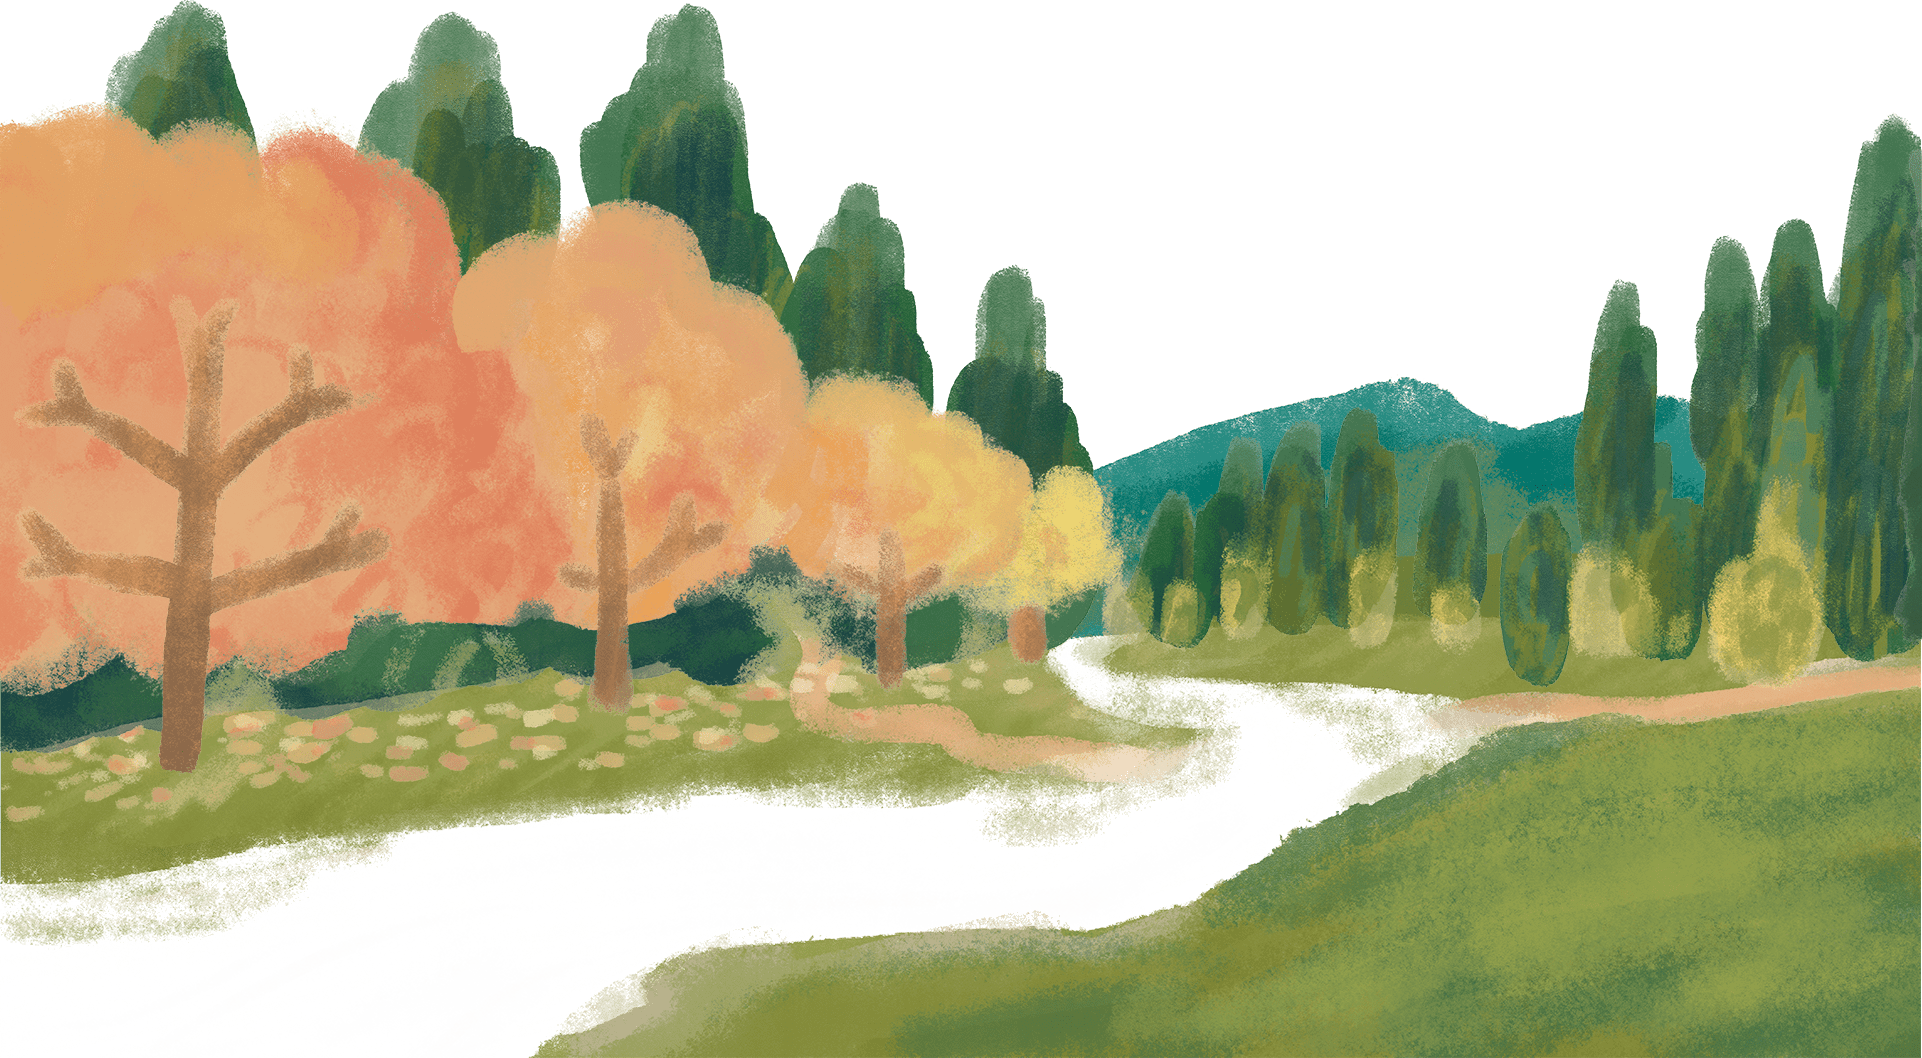
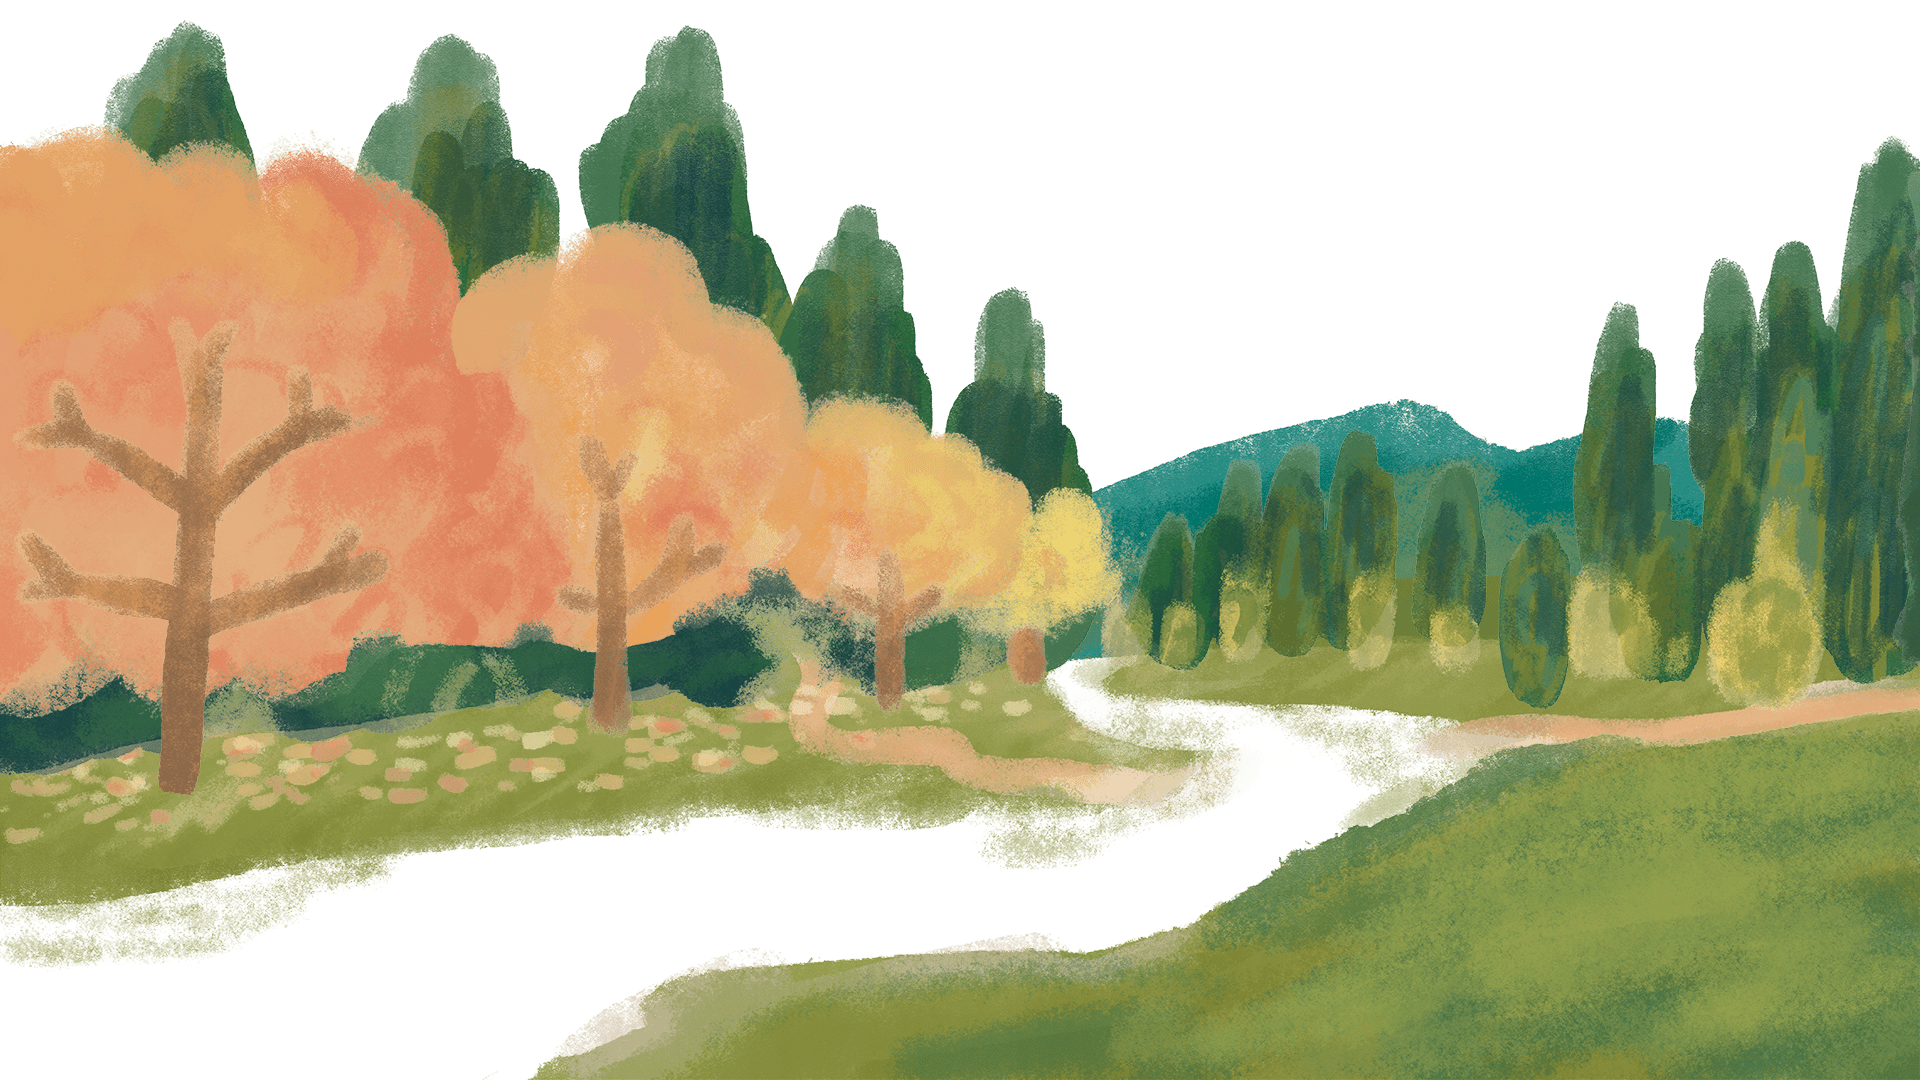
add game 2 20241210 features

diff --git a/js/game/game2-scene3.js b/js/game/game2-scene3.js
@@ -1,6 +1,6 @@
 // quick access / buffer
 var s3_cloud1, s3_cloud2, s3_cloud3, s3_cloud4;
-var s3_grass, s3_mushroom1, s3_mushroom2;
+var s3_grass, s3_mushroom1, s3_mushroom2 ,s3_flower1, s3_flower3, s3_flower4;
 var s3_duck1, s3_duck2, s3_duck3, s3_duck4, s3_rabbit1, s3_rabbit2;
 // var s3_rabbitPosX, s3_rabbitPosY;
 
@@ -8,6 +8,7 @@ function InitializeGameScene3() {
     gameAssetLibrary = new AssetLibrary({
         "game2-scene3-sky": {image:"img/game2/game2-scene3-sky-min.png"},
         "game2-scene3-bg": {image:"img/game2/game2-scene3-bg-min.png"},
+        "game2-scene3-river1": {image:"img/game2/game2-scene3-river1-min.png"},
         "game2-scene3-cloud1": {image:"img/game2/game2-scene3-cloud1-min.png"},
         "game2-scene3-cloud2": {image:"img/game2/game2-scene3-cloud2-min.png"},
         "game2-scene3-cloud3": {image:"img/game2/game2-scene3-cloud3-min.png"},
@@ -15,6 +16,11 @@ function InitializeGameScene3() {
         "game2-scene3-grass": {image:"img/game2/game2-scene3-grass-min.png"},
         "game2-scene3-mushroom1": {image:"img/game2/game2-scene3-mushroom1-min.png"},
         "game2-scene3-mushroom2": {image:"img/game2/game2-scene3-mushroom2-min.png"},
+
+        "game2-scene1-flower1": {image:"img/game2/game2-scene1-flower1-min.png"},
+        "game2-scene1-flower3": {image:"img/game2/game2-scene1-flower3-min.png"},
+        "game2-scene1-flower4": {image:"img/game2/game2-scene1-flower4-min.png"},
+
         "game2-scene3-duck1": {image:"img/game2/game2-scene3-duck1-min.png"},
         "game2-scene3-duck2": {image:"img/game2/game2-scene3-duck2-min.png"},
         "game2-scene3-rabbit": {image:"img/game2/game2-scene3-rabbit-min.png"},
@@ -29,13 +35,15 @@ function StartGameScene3() {
     gameScoreBallon.Update({text:"0"});
 
     gameObjectLibrary = new GameObjectLibrary({
-        "s3_sky": {transform:{posX:0, posY:0, sizeX:1920, sizeY:1080},bitmap:gameAssetLibrary.data["game2-scene3-sky"]},
+        "s3_sky": {transform:{posX:0, posY:0, sizeX:1920, sizeY:500},bitmap:gameAssetLibrary.data["game2-scene3-sky"]},
         "s3_cloud1": {transform:{posX:60, posY:75, sizeX:617, sizeY:254},bitmap:gameAssetLibrary.data["game2-scene3-cloud1"]},
         "s3_cloud2": {transform:{posX:737, posY:0, sizeX:504, sizeY:88},bitmap:gameAssetLibrary.data["game2-scene3-cloud2"]},
         "s3_cloud3": {transform:{posX:710, posY:232, sizeX:728, sizeY:263},bitmap:gameAssetLibrary.data["game2-scene3-cloud3"]},
         "s3_cloud4": {transform:{posX:1350, posY:60, sizeX:501, sizeY:193},bitmap:gameAssetLibrary.data["game2-scene3-cloud4"]},
-        "s3_bg": {transform:{posX:0, posY:22, sizeX:1920, sizeY:1058},bitmap:gameAssetLibrary.data["game2-scene3-bg"]},
+        "s3_river1": {transform:{posX:0, posY:630, sizeX:1920, sizeY:450},bitmap:gameAssetLibrary.data["game2-scene3-river1"]},
+        "s3_bg": {transform:{posX:0, posY:0, sizeX:1920, sizeY:1080},bitmap:gameAssetLibrary.data["game2-scene3-bg"]},
         "s3_grass": {transform:{posX:0, posY:1080, sizeX:1920, sizeY:448, anchorX:0, anchorY:1},bitmap:gameAssetLibrary.data["game2-scene3-grass"]},
+        "s3_flower1": {transform:{posX:142, posY:728+110, sizeX:480, sizeY:110, anchorX: 0, anchorY: 1},bitmap:gameAssetLibrary.data["game2-scene1-flower1"]},
         "s3_duck4": {transform:{posX:1000, posY:830, sizeX:288, sizeY:143, anchorX:0.5, anchorY:0.5},bitmap:gameAssetLibrary.data["game2-scene3-duck2"]},
         "s3_duck3": {transform:{posX:600, posY:830, sizeX:288, sizeY:147.8, anchorX:0.5, anchorY:0.5},bitmap:gameAssetLibrary.data["game2-scene3-duck1"]},
         "s3_duck2": {transform:{posX:1000, posY:0, sizeX:288, sizeY:143, anchorX:0.5, anchorY:0.5},bitmap:gameAssetLibrary.data["game2-scene3-duck2"]},
@@ -46,8 +54,6 @@ function StartGameScene3() {
     s3_cloud3 = gameObjectLibrary.data["s3_cloud3"];
     s3_cloud4 = gameObjectLibrary.data["s3_cloud4"];
     s3_grass = gameObjectLibrary.data["s3_grass"];
-    s3_mushroom1 = gameObjectLibrary.data["s3_mushroom1"];
-    s3_mushroom2 = gameObjectLibrary.data["s3_mushroom2"];
     s3_duck1 = gameObjectLibrary.data["s3_duck1"];
     s3_duck1.SetupAnimation([
         { time: 0, x: 1053-500, y: 832+65 },
@@ -78,12 +84,15 @@ function StartGameScene3() {
     var rabbitSpriteSheet = new createjs.SpriteSheet({ 
         images: [gameAssetLibrary.data["game2-scene3-rabbit"].image], 
         frames: {width:263, height:180},
-        animations: {'a0':0,'a1':1}
+        animations: {'a0':0,'a1':1, 'a2':2}
     });
 
     s3_mushroom1 = gameObjectLibrary.AddGameObject("s3_mushroom1", {transform:{posX:1492, posY:783, sizeX:140, sizeY:63, anchorX:0, anchorY:1},bitmap:gameAssetLibrary.data["game2-scene3-mushroom1"]});
 
-    s3_rabbit2 = gameObjectLibrary.AddGameObject("s3_rabbit1", {transform:{posX:1654, posY:768, sizeX:263, sizeY:180, anchorX: 0.5, anchorY:0.5, flip:true}, sprite:{spriteSheet:rabbitSpriteSheet, spriteIndices:[0,1]}});
+    s3_flower1 = gameObjectLibrary.data["s3_flower1"];
+    s3_flower3 = gameObjectLibrary.AddGameObject("s3_flower3", {transform:{posX:1700, posY:718+72, sizeX:170, sizeY:72, anchorX: 0, anchorY: 1},bitmap:gameAssetLibrary.data["game2-scene1-flower3"]});
+
+    s3_rabbit2 = gameObjectLibrary.AddGameObject("s3_rabbit1", {transform:{posX:1654, posY:768, sizeX:263, sizeY:180, anchorX: 0.5, anchorY:0.5, flip:true}, sprite:{spriteSheet:rabbitSpriteSheet, spriteIndices:[0,1,2]}});
     s3_rabbit2.SetupAnimation([
         { time: 1, x: 1654, y: 768 },
         { time: 3, x: 1840, y: 781 },
@@ -95,7 +104,7 @@ function StartGameScene3() {
 
     s3_mushroom2 = gameObjectLibrary.AddGameObject("s3_mushroom2", {transform:{posX:1621, posY:916, sizeX:133, sizeY:98, anchorX:0, anchorY:1},bitmap:gameAssetLibrary.data["game2-scene3-mushroom2"]});
 
-    s3_rabbit1 = gameObjectLibrary.AddGameObject("s3_rabbit1", {transform:{posX:2100, posY:780, sizeX:263, sizeY:180, anchorX: 0.5, anchorY:0.5}, sprite:{spriteSheet:rabbitSpriteSheet, spriteIndices:[0,1]}});
+    s3_rabbit1 = gameObjectLibrary.AddGameObject("s3_rabbit1", {transform:{posX:2100, posY:780, sizeX:263, sizeY:180, anchorX: 0.5, anchorY:0.5}, sprite:{spriteSheet:rabbitSpriteSheet, spriteIndices:[0,1,2]}});
     s3_rabbit1.SetupAnimation([
         { time: 3, x: 2100, y: 880 },
         { time: 5, x: 1400, y: 940 },
@@ -104,6 +113,8 @@ function StartGameScene3() {
         { time: 13, x: 1750, y: 1010 },
         { time: 14.5, x: 2100, y: 810 },
     ]);
+
+    s3_flower4 = gameObjectLibrary.AddGameObject("s3_flower4", {transform:{posX:800, posY:1070, sizeX:545, sizeY:190, anchorX: 0, anchorY: 1},bitmap:gameAssetLibrary.data["game2-scene1-flower4"]});
 
     gameStage.update();
 
@@ -122,13 +133,17 @@ function LoopGameScene3(_evt) {
     }
     let time = runTime - gameTimeBuffer2;
 
-    s3_grass.renderer.skewX = Math.sin(time * 0.8) * 3;
-    s3_mushroom1.renderer.skewX = Math.sin(time * 0.6 + 1) * 8;
-    s3_mushroom2.renderer.skewX = Math.sin(time * 0.8 + 2) * 4;
+    s3_grass.renderer.skewX = Math.sin(time * 0.8) * 7;
+    s3_mushroom1.renderer.skewX = Math.sin(time * 0.6 + 1) * 28;
+    s3_mushroom2.renderer.skewX = Math.sin(time * 0.8 + 2) * 12;
     s3_cloud1.SetPosition({posX:60-time*7});
     s3_cloud2.SetPosition({posX:737-time*3});
     s3_cloud3.SetPosition({posX:710-time*5});
     s3_cloud4.SetPosition({posX:1350-time*12});
+
+    s3_flower1.renderer.skewX = Math.sin(time * 0.6 + 1) * 14;
+    s3_flower3.renderer.skewX = Math.sin(time * 0.3 + 3) * 25;
+    s3_flower4.renderer.skewX = Math.sin(time * 0.5 + 4) * 16;
 
     let s3_duck1_scale = (s3_duck1.transform.posY - 747) / (962 - 747);
     // s3_duck1_scale = 0.5 + s3_duck1_scale * s3_duck1_scale * 0.5;
@@ -166,6 +181,8 @@ function LoopGameScene3(_evt) {
     s3_rabbit1.PlayAnimation(time);
     if ((time >= 3 && time <= 5) || (time >= 9 && time <= 11) || (time >= 13)) {
         s3_rabbit1.SetAnimationIndex(Math.floor((Math.abs(time * 5)) % 2));
+    } else {
+        s3_rabbit1.SetAnimationIndex(2);
     }
     if (time >= 9 && !s3_rabbit1.transform.flip) {
         s3_rabbit1.SetPosition({flip:true});
@@ -179,6 +196,8 @@ function LoopGameScene3(_evt) {
     s3_rabbit2.PlayAnimation(time);
     if ((time >= 1 && time <= 3) || (time >= 7 && time <= 9) || (time >= 13.5)) {
         s3_rabbit2.SetAnimationIndex(Math.floor((Math.abs(time * 5)) % 2));
+    } else {
+        s3_rabbit2.SetAnimationIndex(2);
     }
     if (time >= 7 && s3_rabbit2.transform.flip) {
         s3_rabbit2.SetPosition({flip:false});

diff --git a/js/game/game2-scene4.js b/js/game/game2-scene4.js
@@ -1,6 +1,6 @@
 // quick access / buffer
-var s4_car1, s4_car2, s4_bicycle;
-var s4_car1_audio_hasPlay;
+var s4_bicycle, s4_car1, s4_car2, s4_bus, s4_pedestrian1, s4_pedestrian2, s4_pedestrian3;
+var s4_car1_audio_hasPlay, s4_car2_audio_hasPlay, s4_bus_audio_hasPlay;
 
 function InitializeGameScene4() {
     gameAssetLibrary = new AssetLibrary({
@@ -9,6 +9,11 @@ function InitializeGameScene4() {
         "game2-scene4-car1": {image:"img/game2/game2-scene4-car1-min.png"},
         "game2-scene4-car2": {image:"img/game2/game2-scene4-car2-min.png"},
         "game2-scene4-bicycle": {image:"img/game2/game2-scene4-bicycle-min.png"},
+        "game2-scene4-bus": {image:"img/game2/game2-scene4-bus-min.png"},
+        "game2-scene4-pedestrian1": {image:"img/game2/game2-scene4-pedestrian1-min.png"},
+        "game2-scene4-pedestrian2": {image:"img/game2/game2-scene4-pedestrian2-min.png"},
+        "game2-scene4-pedestrian3": {image:"img/game2/game2-scene4-pedestrian3-min.png"},
+        "game2-scene4-rubbishbin": {image:"img/game2/game2-scene4-rubbishbin-min.png"},
         "game2-scene4-audio": {audio:"audio/game/game2scene4.mp3"},
         "game2-scene4-car-audio": {audio:"audio/game/game2scene4_car.mp3"},
     }, UpdateLoadingBar, StartGameScene4);
@@ -21,21 +26,36 @@ function StartGameScene4() {
     gameScoreBallon.Update({text:"0"});
 
     gameObjectLibrary = new GameObjectLibrary({
-        "s4_sky": {transform:{posX:0, posY:0, sizeX:1920, sizeY:1080},bitmap:gameAssetLibrary.data["game2-scene4-bg"]},
-        "s4_car1": {transform:{posX:0, posY:640, sizeX:108, sizeY:40, flip:true},bitmap:gameAssetLibrary.data["game2-scene4-car1"]},
+        "s4_bg": {transform:{posX:0, posY:0, sizeX:1920, sizeY:1080},bitmap:gameAssetLibrary.data["game2-scene4-bg"]},
+        // "s4_car1": {transform:{posX:0, posY:640, sizeX:108, sizeY:40, flip:true},bitmap:gameAssetLibrary.data["game2-scene4-car1"]},
+        // "s4_car2": {transform:{posX:0, posY:640, sizeX:108, sizeY:40, flip:true},bitmap:gameAssetLibrary.data["game2-scene4-car2"]},
     });
-    s4_car1 = gameObjectLibrary.data["s4_car1"];
-    s4_car1_audio_hasPlay = false;
+
     var bicycleSpriteSheet = new createjs.SpriteSheet({ 
         images: [gameAssetLibrary.data["game2-scene4-bicycle"].image], 
-        frames: {width:201, height:210},
+        frames: {width:48, height:50},
         animations: {'a0':0,'a1':1,}
     });
+    s4_bicycle = gameObjectLibrary.AddGameObject("s4_bicycle", {transform:{posX:0, posY:630, sizeX:48, sizeY:50}, sprite:{spriteSheet:bicycleSpriteSheet, spriteIndices:[0,1]}});
+
     gameObjectLibrary.AddGameObject("s4_props", {transform:{posX:0, posY:0, sizeX:1920, sizeY:1080},bitmap:gameAssetLibrary.data["game2-scene4-props"]});
-    s4_bicycle = gameObjectLibrary.AddGameObject("s4_bicycle", {transform:{posX:2400, posY:808, sizeX:201, sizeY:210, flip:true}, sprite:{spriteSheet:bicycleSpriteSheet, spriteIndices:[0,1]}});
+
+    s4_bus = gameObjectLibrary.AddGameObject("s4_bus", {transform:{posX:785, posY:762, sizeX:239, sizeY:400, anchorX:0.5, anchorY:1},bitmap:gameAssetLibrary.data["game2-scene4-bus"]});
+
+    s4_pedestrian1 = gameObjectLibrary.AddGameObject("s4_pedestrian1", {transform:{posX:0, posY:540, sizeX:1920, sizeY:350},bitmap:gameAssetLibrary.data["game2-scene4-pedestrian1"]});
+    s4_pedestrian2 = gameObjectLibrary.AddGameObject("s4_pedestrian2", {transform:{posX:0, posY:540, sizeX:1920, sizeY:350},bitmap:gameAssetLibrary.data["game2-scene4-pedestrian2"]});
+    s4_pedestrian3 = gameObjectLibrary.AddGameObject("s4_pedestrian3", {transform:{posX:0, posY:540, sizeX:1920, sizeY:350},bitmap:gameAssetLibrary.data["game2-scene4-pedestrian3"]});
+
+    gameObjectLibrary.AddGameObject("s4_rubbishbin", {transform:{posX:1658, posY:710, sizeX:94, sizeY:137},bitmap:gameAssetLibrary.data["game2-scene4-rubbishbin"]});
+
+    s4_car1 = gameObjectLibrary.AddGameObject("s4_car1", {transform:{posX:2100, posY:750, sizeX:689, sizeY:290},bitmap:gameAssetLibrary.data["game2-scene4-car1"]});
     s4_car2 = gameObjectLibrary.AddGameObject("s4_car2", {transform:{posX:2100, posY:750, sizeX:689, sizeY:290},bitmap:gameAssetLibrary.data["game2-scene4-car2"]});
 
     gameStage.update();
+
+    s4_car1_audio_hasPlay = false;
+    s4_car2_audio_hasPlay = false;
+    s4_bus_audio_hasPlay = false;
 
     gameTimeBuffer1 = true;
     createjs.Ticker.timingMode = createjs.Ticker.RAF;
@@ -52,15 +72,73 @@ function LoopGameScene4(_evt) {
     }
     let time = runTime - gameTimeBuffer2;
 
-    s4_car1.SetPosition({posX:240*time});
-    s4_bicycle.SetPosition({posX:2400-240*time});
-    s4_bicycle.SetAnimationIndex(Math.floor((Math.abs(runTime * 4)) % 2));
-    s4_car2.SetPosition({posX:2100-time*720});
-
-    if (time > 1 && !s4_car1_audio_hasPlay) {
-        PlayAudio(gameAssetLibrary.data["game2-scene4-car-audio"].audio);
-        s4_car1_audio_hasPlay = true;
+    if (time < 5) {
+        let s4_bus_targetPosY = 680;
+        let s4_bus_posY = 762 - Math.sqrt(time/5.0) * (762 - s4_bus_targetPosY);
+        let s4_bus_scale = (s4_bus_posY - s4_bus_targetPosY) / (762 - s4_bus_targetPosY);
+        s4_bus_scale = 0.2 + s4_bus_scale * 0.8;
+        s4_bus.SetPosition({posX: 785 + time/5.0*120, posY: s4_bus_posY, sizeX:239 * s4_bus_scale, sizeY:400 * s4_bus_scale});
+    } else if (time < 6) {
+        s4_bus.renderer.alpha = 1.0 - (time - 5.0);
     }
+
+    if (time > 2.5 && time < 6) {
+        s4_car1.SetPosition({posX:1920 - (time - 2.5) * 1080});
+        if (time > 3 && !s4_car1_audio_hasPlay) {
+            PlayAudio(gameAssetLibrary.data["game2-scene4-car-audio"].audio);
+            s4_car1_audio_hasPlay = true;
+        }
+    }
+
+    if (time > 9.5 && time < 12) {
+        s4_car2.SetPosition({posX:1920 - (time - 9.5) * 1380});
+        if (time > 10 && !s4_car2_audio_hasPlay) {
+            PlayAudio(gameAssetLibrary.data["game2-scene4-car-audio"].audio);
+            s4_car2_audio_hasPlay = true;
+        }
+    }
+
+    if (time > 6 && time < 15) {
+        s4_bicycle.SetPosition({posX:660 + (time - 6) * 100});
+        s4_bicycle.SetAnimationIndex(Math.floor((Math.abs(runTime * 4)) % 2));
+    }
+
+    let t = time % 3;
+    function lerp(a, b, fraction) {
+        return a + (b - a) * fraction;
+    }
+    let alpha1 = 0, alpha2 = 0, alpha3 = 0;
+    if (t < 0.8) {
+        alpha1 = 1;
+        alpha2 = 0;
+        alpha3 = 0;
+    } else if (t < 1) {
+        const progress = (t - 0.8) / 0.2;
+        alpha1 = lerp(1, 0, progress);
+        alpha2 = lerp(0, 1, progress);
+        alpha3 = 0;
+    } else if (t < 1.8) {
+        alpha1 = 0;
+        alpha2 = 1;
+        alpha3 = 0;
+    } else if (t < 2) {
+        const progress = (t - 1.8) / 0.2;
+        alpha1 = 0;
+        alpha2 = lerp(1, 0, progress);
+        alpha3 = lerp(0, 1, progress);
+    } else if (t < 2.8) {
+        alpha1 = 0;
+        alpha2 = 0;
+        alpha3 = 1;
+    } else if (t < 3) {
+        const progress = (t - 2.8) / 0.2;
+        alpha1 = lerp(0, 1, progress);
+        alpha2 = 0;
+        alpha3 = lerp(1, 0, progress);
+    }
+    s4_pedestrian1.renderer.alpha = alpha1;
+    s4_pedestrian2.renderer.alpha = alpha2;
+    s4_pedestrian3.renderer.alpha = alpha3;
 
     gameStage.update();
     if (time > 15) {

diff --git a/js/game/game2-scene1.js b/js/game/game2-scene1.js
@@ -8,7 +8,8 @@ var s1_tortoisePosX, s1_tortoisePosY;
 function InitializeGameScene1() {
     gameAssetLibrary = new AssetLibrary({
         "game2-scene1-bird": {image:"img/game2/game2-scene1-bird-min.png"},
-        "game2-scene1-brush": {image:"img/game2/game2-scene1-brush-min.png"},
+        "game2-scene1-brush1": {image:"img/game2/game2-scene1-brush1-min.png"},
+        "game2-scene1-brush2": {image:"img/game2/game2-scene1-brush2-min.png"},
         "game2-scene1-butterfly": {image:"img/game2/game2-scene1-butterfly-min.png"},
         "game2-scene1-cloud1": {image:"img/game2/game2-scene1-cloud1-min.png"},
         "game2-scene1-cloud2": {image:"img/game2/game2-scene1-cloud2-min.png"},
@@ -44,12 +45,13 @@ function StartGameScene1() {
         "s1_cloud3": {transform:{posX:250, posY:240, sizeX:736, sizeY:334},bitmap:gameAssetLibrary.data["game2-scene1-cloud3"]},
         "s1_hill": {transform:{posX:0, posY:350, sizeX:1920, sizeY:730},bitmap:gameAssetLibrary.data["game2-scene1-hill"]},
         "s1_grass": {transform:{posX:0, posY:640+440, sizeX:1920, sizeY:440, anchorX: 0, anchorY: 1},bitmap:gameAssetLibrary.data["game2-scene1-grass"]},
+        "s1_brush1": {transform:{posX:0, posY:35, sizeX:1920, sizeY:815},bitmap:gameAssetLibrary.data["game2-scene1-brush1"]},
         "s1_flower1": {transform:{posX:142, posY:728+110, sizeX:480, sizeY:110, anchorX: 0, anchorY: 1},bitmap:gameAssetLibrary.data["game2-scene1-flower1"]},
         "s1_flower2": {transform:{posX:1250, posY:728+122, sizeX:560, sizeY:122, anchorX: 0, anchorY: 1},bitmap:gameAssetLibrary.data["game2-scene1-flower2"]},
         "s1_tortoise-leg2": {transform:{posX:300, posY:900, sizeX:128, sizeY:87, anchorX: 0, anchorY: 1},bitmap:gameAssetLibrary.data["game2-scene1-tortoise-leg2"]},
         "s1_tortoise-leg1": {transform:{posX:300, posY:900, sizeX:128, sizeY:87, anchorX: 0, anchorY: 1},bitmap:gameAssetLibrary.data["game2-scene1-tortoise-leg1"]},
         "s1_tortoise-body": {transform:{posX:300, posY:900, sizeX:128, sizeY:87, anchorX: 0, anchorY: 1},bitmap:gameAssetLibrary.data["game2-scene1-tortoise-body"]},
-        "s1_brush": {transform:{posX:0, posY:0, sizeX:1920, sizeY:1080},bitmap:gameAssetLibrary.data["game2-scene1-brush"]},
+        "s1_brush2": {transform:{posX:0, posY:800, sizeX:1920, sizeY:240},bitmap:gameAssetLibrary.data["game2-scene1-brush2"]},
         "s1_flower3": {transform:{posX:570, posY:818+72, sizeX:170, sizeY:72, anchorX: 0, anchorY: 1},bitmap:gameAssetLibrary.data["game2-scene1-flower3"]},
         "s1_flower4": {transform:{posX:1300, posY:808+190, sizeX:545, sizeY:190, anchorX: 0, anchorY: 1},bitmap:gameAssetLibrary.data["game2-scene1-flower4"]},
         "s1_flower5": {transform:{posX:30, posY:878+168, sizeX:650, sizeY:168, anchorX: 0, anchorY: 1},bitmap:gameAssetLibrary.data["game2-scene1-flower5"]},
